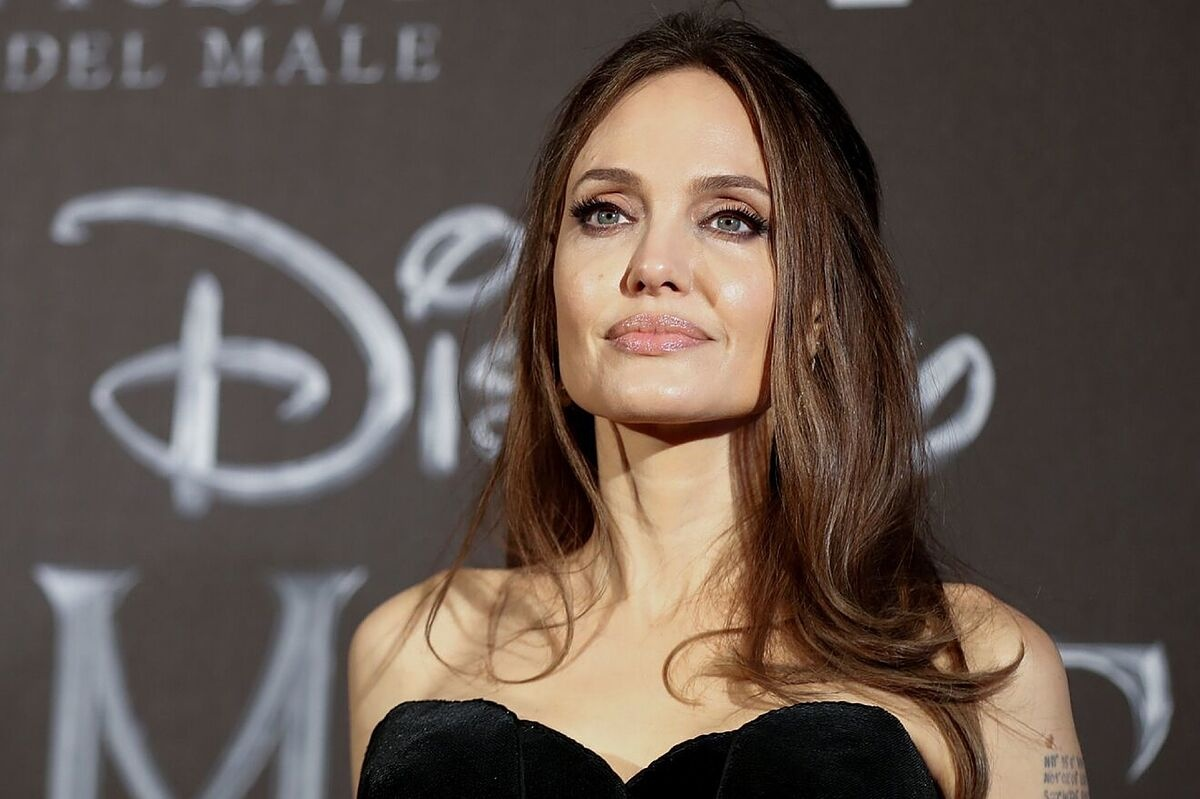
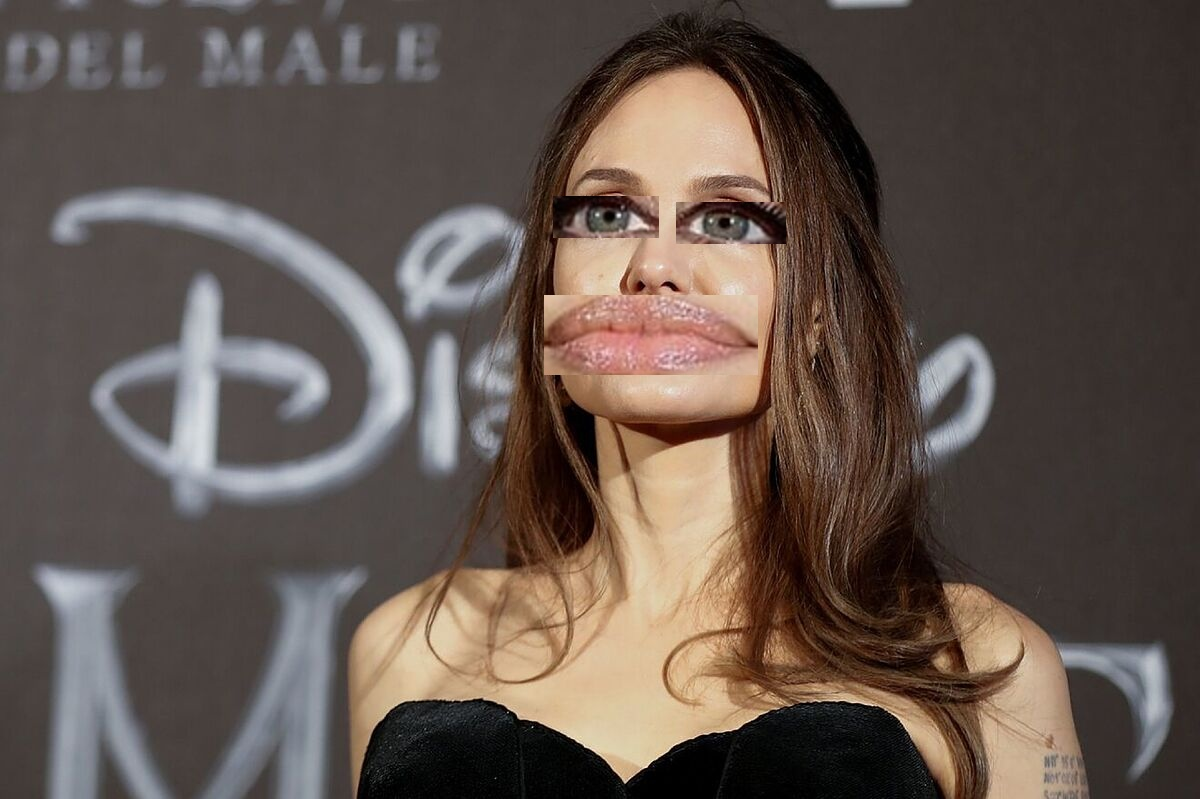
A-30

Changed region(s): [[0.4317, 0.3605, 0.6475, 0.4806], [0.4625, 0.2403, 0.6783, 0.3304]]

diff --git a/Image Processing/Face Alignment/Biger_eyes_lips/main.py b/Image Processing/Face Alignment/Biger_eyes_lips/main.py
@@ -1,21 +1,18 @@
 import numpy as np
 import cv2
-import tensorflow as tf
-from functools import partial
 from TFLiteFaceAlignment import CoordinateAlignmentModel
 from TFLiteFaceDetector import UltraLightFaceDetecion
 
-
 print("Loading ... ")
-# خواندن تصاویر ورودی (چهره انسان )
-image_face = cv2.imread("Biger_eyes_lips\input\img.jpg")
+# خواندن تصویر ورودی (چهره انسان)
+image_face = cv2.imread("Biger_eyes_lips/input/img.jpg")
 
 # ایندکس نقاط مختلف صورت
 lips = [52, 55, 56, 53, 59, 58, 61, 68, 67, 71, 63, 64, 65]
 eye_left = [41, 40, 42, 39, 37, 33, 36, 35]
 eye_right = [89, 90, 87, 91, 93, 96, 94, 95]
 
-def snapchat_filters(parameter):
+def snapchat_filters(parameter, scale_factor=2):
     # بارگذاری مدلهای تشخیص چهره و همراستاسازی نقاط صورت
     fd = UltraLightFaceDetecion("Models/RFB-320.tflite", conf_threshold=0.88)
     fa = CoordinateAlignmentModel("Models/coor_2d106.tflite")
@@ -30,24 +27,35 @@ def snapchat_filters(parameter):
 
         # ایجاد ماسک برای محدوده انتخاب شده (لب یا چشمها)
         x, y, w, h = cv2.boundingRect(landmarks)
-        mask = np.zeros(image_face.shape, dtype=np.uint8) + 255
-        cv2.drawContours(mask, [landmarks], -1, (255, 255, 255), -1)
-        mask = mask // 255
+        mask = np.zeros(image_face.shape[:2], dtype=np.uint8) +255 # ماسک سیاه و سفید
+        cv2.fillPoly(mask, [landmarks], 255)
 
-        # اعمال ماسک روی تصویر و برش قسمت مورد نظر
-        result = cv2.multiply(image_face, mask)
-        result = result[y:y+h, x:x+w]
-        result_big=cv2.resize(result,(0,0),fx=2,fy=2)
+        # استخراج قسمت انتخابی
+        roi = cv2.bitwise_and(image_face, image_face, mask=mask)
 
-        # اعمال قسمت برشخورده روی تصویر میوه
-        image_face[y:(y+h)*2, x:(x+w)*2] = result_big
+        # برش قسمت انتخابی از چهره
+        roi_cropped = roi[y:y+h, x:x+w]
+
+        # بزرگنمایی قسمت برشخورده
+        result_big = cv2.resize(roi_cropped, (0, 0), fx=scale_factor, fy=scale_factor)
+
+        # جایگذاری قسمت بزرگ شده روی چهره
+        new_w, new_h = result_big.shape[1], result_big.shape[0]
+
+        # محاسبه مختصات جدید برای قرار دادن تصویر بزرگشده در مکان صحیح
+        center_x, center_y = np.mean(landmarks[:, 0]), np.mean(landmarks[:, 1])
+        top_left_x = int(center_x - new_w // 2)
+        top_left_y = int(center_y - new_h // 2)
+
+        # قرار دادن قسمت بزرگشده روی تصویر اصلی
+        image_face[top_left_y:top_left_y+new_h, top_left_x:top_left_x+new_w] = result_big
 
     # ذخیره تصویر نهایی
-    cv2.imwrite("Biger_eyes_lips\output\output.jpg", image_face)
+    cv2.imwrite("Biger_eyes_lips/output/output.jpg", image_face)
 
 # اعمال فیلترها برای لبها، چشم چپ و چشم راست
 snapchat_filters(lips)
 snapchat_filters(eye_left)
 snapchat_filters(eye_right)
 
-print("finished")
+print("Finished")
